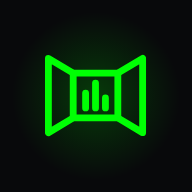
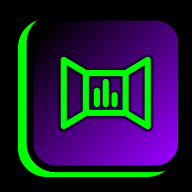
Icono nuevo de pestaña y de app en el estilo de placa de la familia AVHUB

diff --git a/README.md b/README.md
@@ -11,6 +11,11 @@ Visualiza la música y déjate envolver por un espectáculo de capas reactivas e
 
 🎮 **¿Buscas los juegos?** Ahora tienen su propia web: **[MSGAME · msgame.mediaservi.com](https://msgame.mediaservi.com)**.
 
+
+## Icono
+
+Icono de pestaña y de app (noviembre 2026) en el estilo de placa de la familia AVHUB: placa con degradado negro a morado, filete negro y sombra verde, con el isotipo de la app. El logo de la cabecera no cambia.
+
 ## 🚀 Características Clave
 
 - **Audio-Reactividad en Tiempo Real:** Analiza el audio de tu micrófono o sistema y genera visuales sincronizados sin latencia perceptible.
